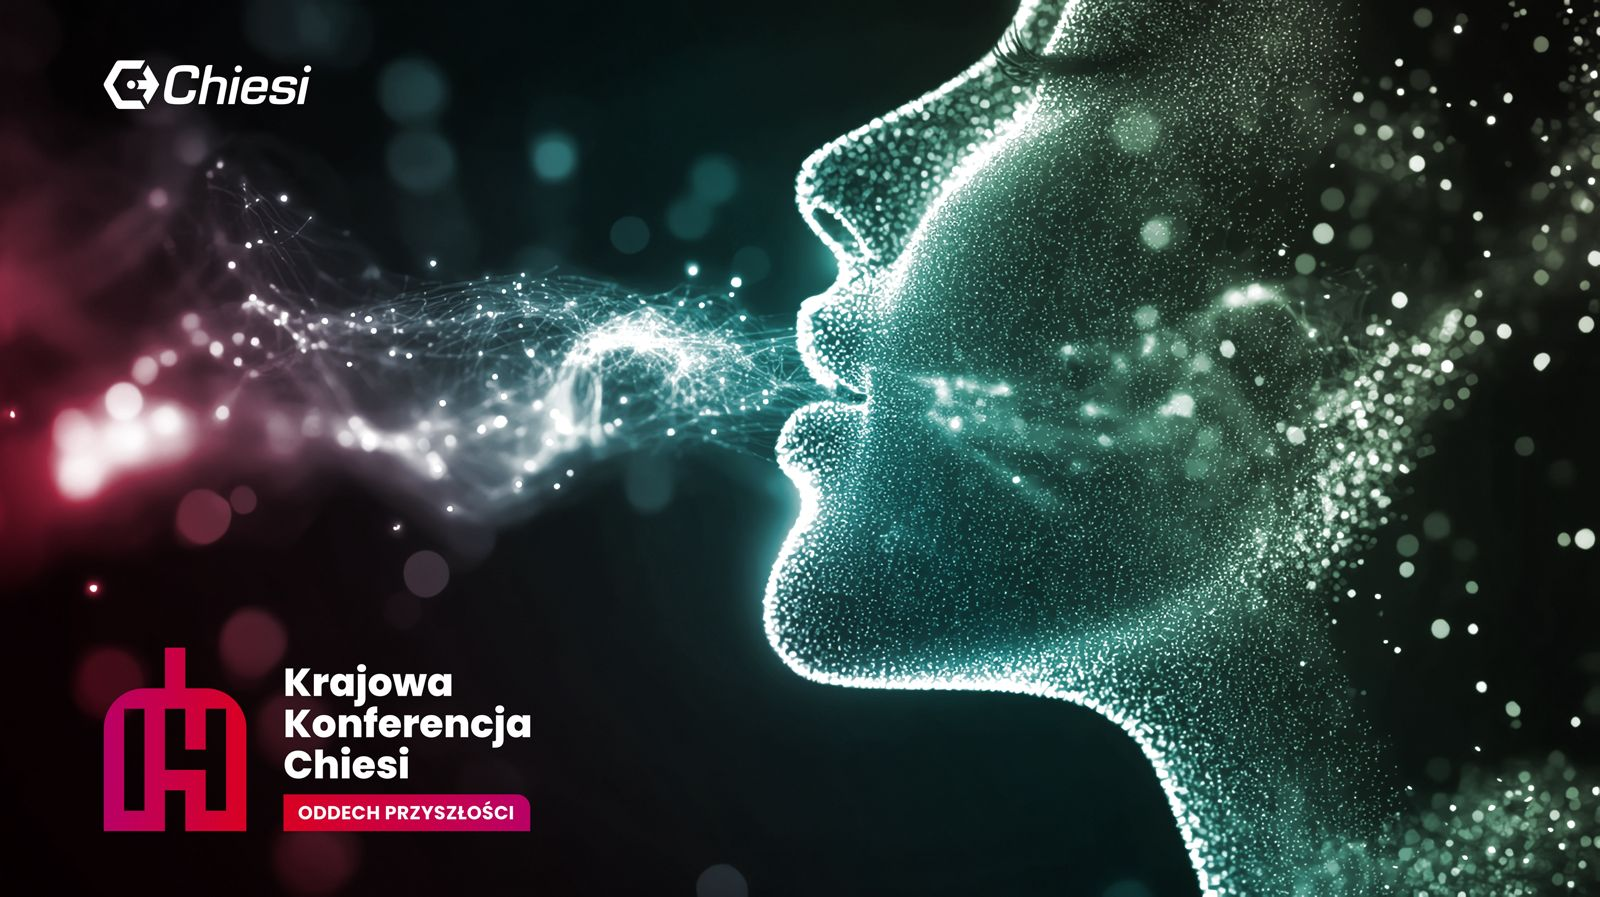
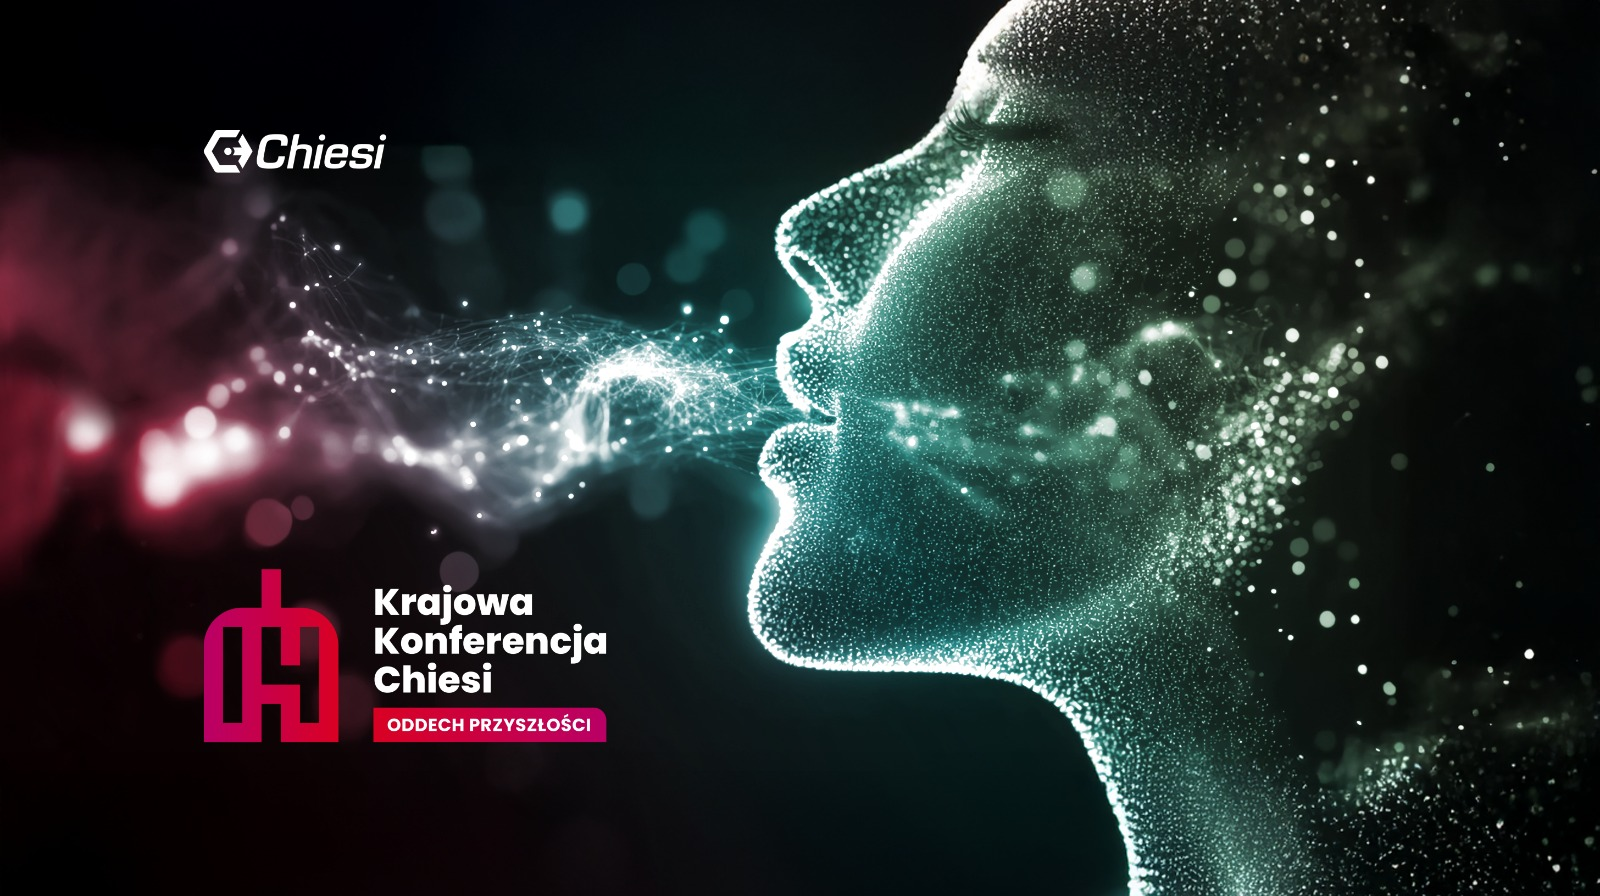
Dodałem ulepszony czat script i nowy background

diff --git a/index.html b/index.html
@@ -117,22 +117,18 @@
         <p class="credits">Demo by Paweł Kwaczyński | 2025</p>
     </footer>
 <div id="tawk_68703ad1784e0c1911e0276d"></div>
-<script type="text/javascript">
-</script><!--Start of Tawk.to Script-->
+<!--Start of Tawk.to Script-->
 <script type="text/javascript">
 var Tawk_API=Tawk_API||{}, Tawk_LoadStart=new Date();
-Tawk_API.embedded='tawk_68703ad1784e0c1911e0276d';
 (function(){
 var s1=document.createElement("script"),s0=document.getElementsByTagName("script")[0];
 s1.async=true;
-s1.src='https://embed.tawk.to/68703ad1784e0c1911e0276d/1ivs84k5a';
+s1.src='https://embed.tawk.to/68703ad1784e0c1911e0276d/1ivr6bgjm';
 s1.charset='UTF-8';
 s1.setAttribute('crossorigin','*');
 s0.parentNode.insertBefore(s1,s0);
 })();
 </script>
 <!--End of Tawk.to Script-->
-
 </body>
-
 </html>
